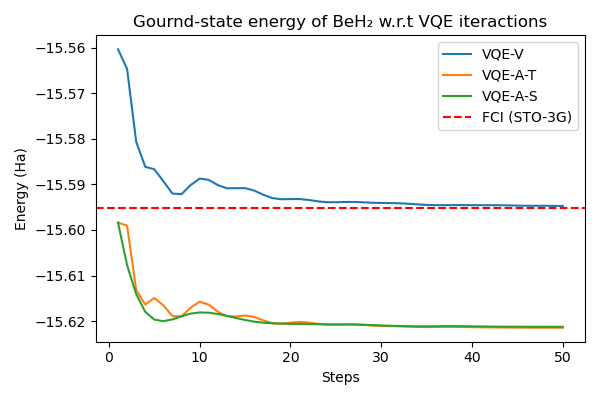
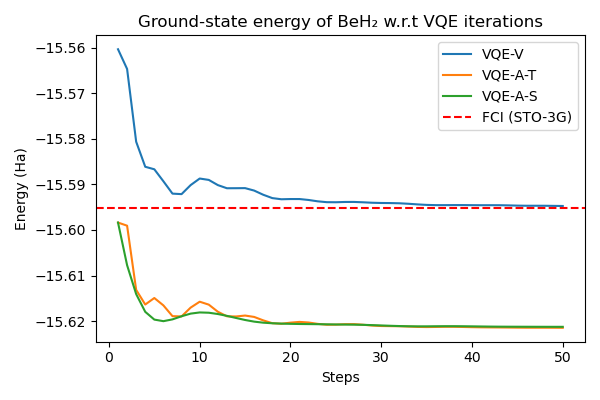
Fixed typos.

Changed region(s): [[0.21, 0.03, 0.93, 0.09]]

diff --git a/README.md b/README.md
@@ -22,7 +22,7 @@ Quiqbox also can customize flexible basis sets such as floating basis sets and m
 
 #### VQE-A-T
 
-In the notebook `Main1_VQE_adaptY_taperingY.ipynb`, we try to perform a VQE simulation under the presumption of the algorithm can be run on an actual NISQ device. We use symmetry-based qubit tapering [2] to reduce the number of required qubits from 14 to 9 based on the Z2 symmetries of the molecular Hamiltonian. We also apply Adapt-VQE [3] to the tapered Hamilotian and tapered single/double excitation gates, reducing the number of double excitation gates from 180 to 32 and the number of single excitation gates from 24 to 6. Thus, we have significantly reduced the number of qubits and the depth of the circuit. One problem with realizing this algorithm on real quantum hardwares is that the only differentiation method that worked with tapering in PennyLane was `diff_method=backprop`. Both `parameter-shift` differentiation and `finite-diff` gave errors when using the tapered Hamiltonian and excitation gates. We hope PennyLane resolves this issue since qubit tapering is crucial for realizing quantum chemistry algorithms on NISQ devices.
+In the notebook `Main1_VQE_adaptY_taperingY.ipynb`, we try to perform a VQE simulation under the presumption of the algorithm can be run on an actual NISQ device. We use symmetry-based qubit tapering [2] to reduce the number of required qubits from 14 to 9 based on the Z₂ symmetries of the molecular Hamiltonian. We also apply Adapt-VQE [3] to the tapered Hamilotian and tapered single/double excitation gates, reducing the number of double excitation gates from 180 to 32 and the number of single excitation gates from 24 to 6. Thus, we have significantly reduced the number of qubits and the depth of the circuit. One problem with realizing this algorithm on real quantum hardwares is that the only differentiation method that worked with tapering in PennyLane was `diff_method=backprop`. Both `parameter-shift` differentiation and `finite-diff` gave errors when using the tapered Hamiltonian and excitation gates. We hope PennyLane resolves this issue since qubit tapering is crucial for realizing quantum chemistry algorithms on NISQ devices.
 
 #### VQE-A-S
 
